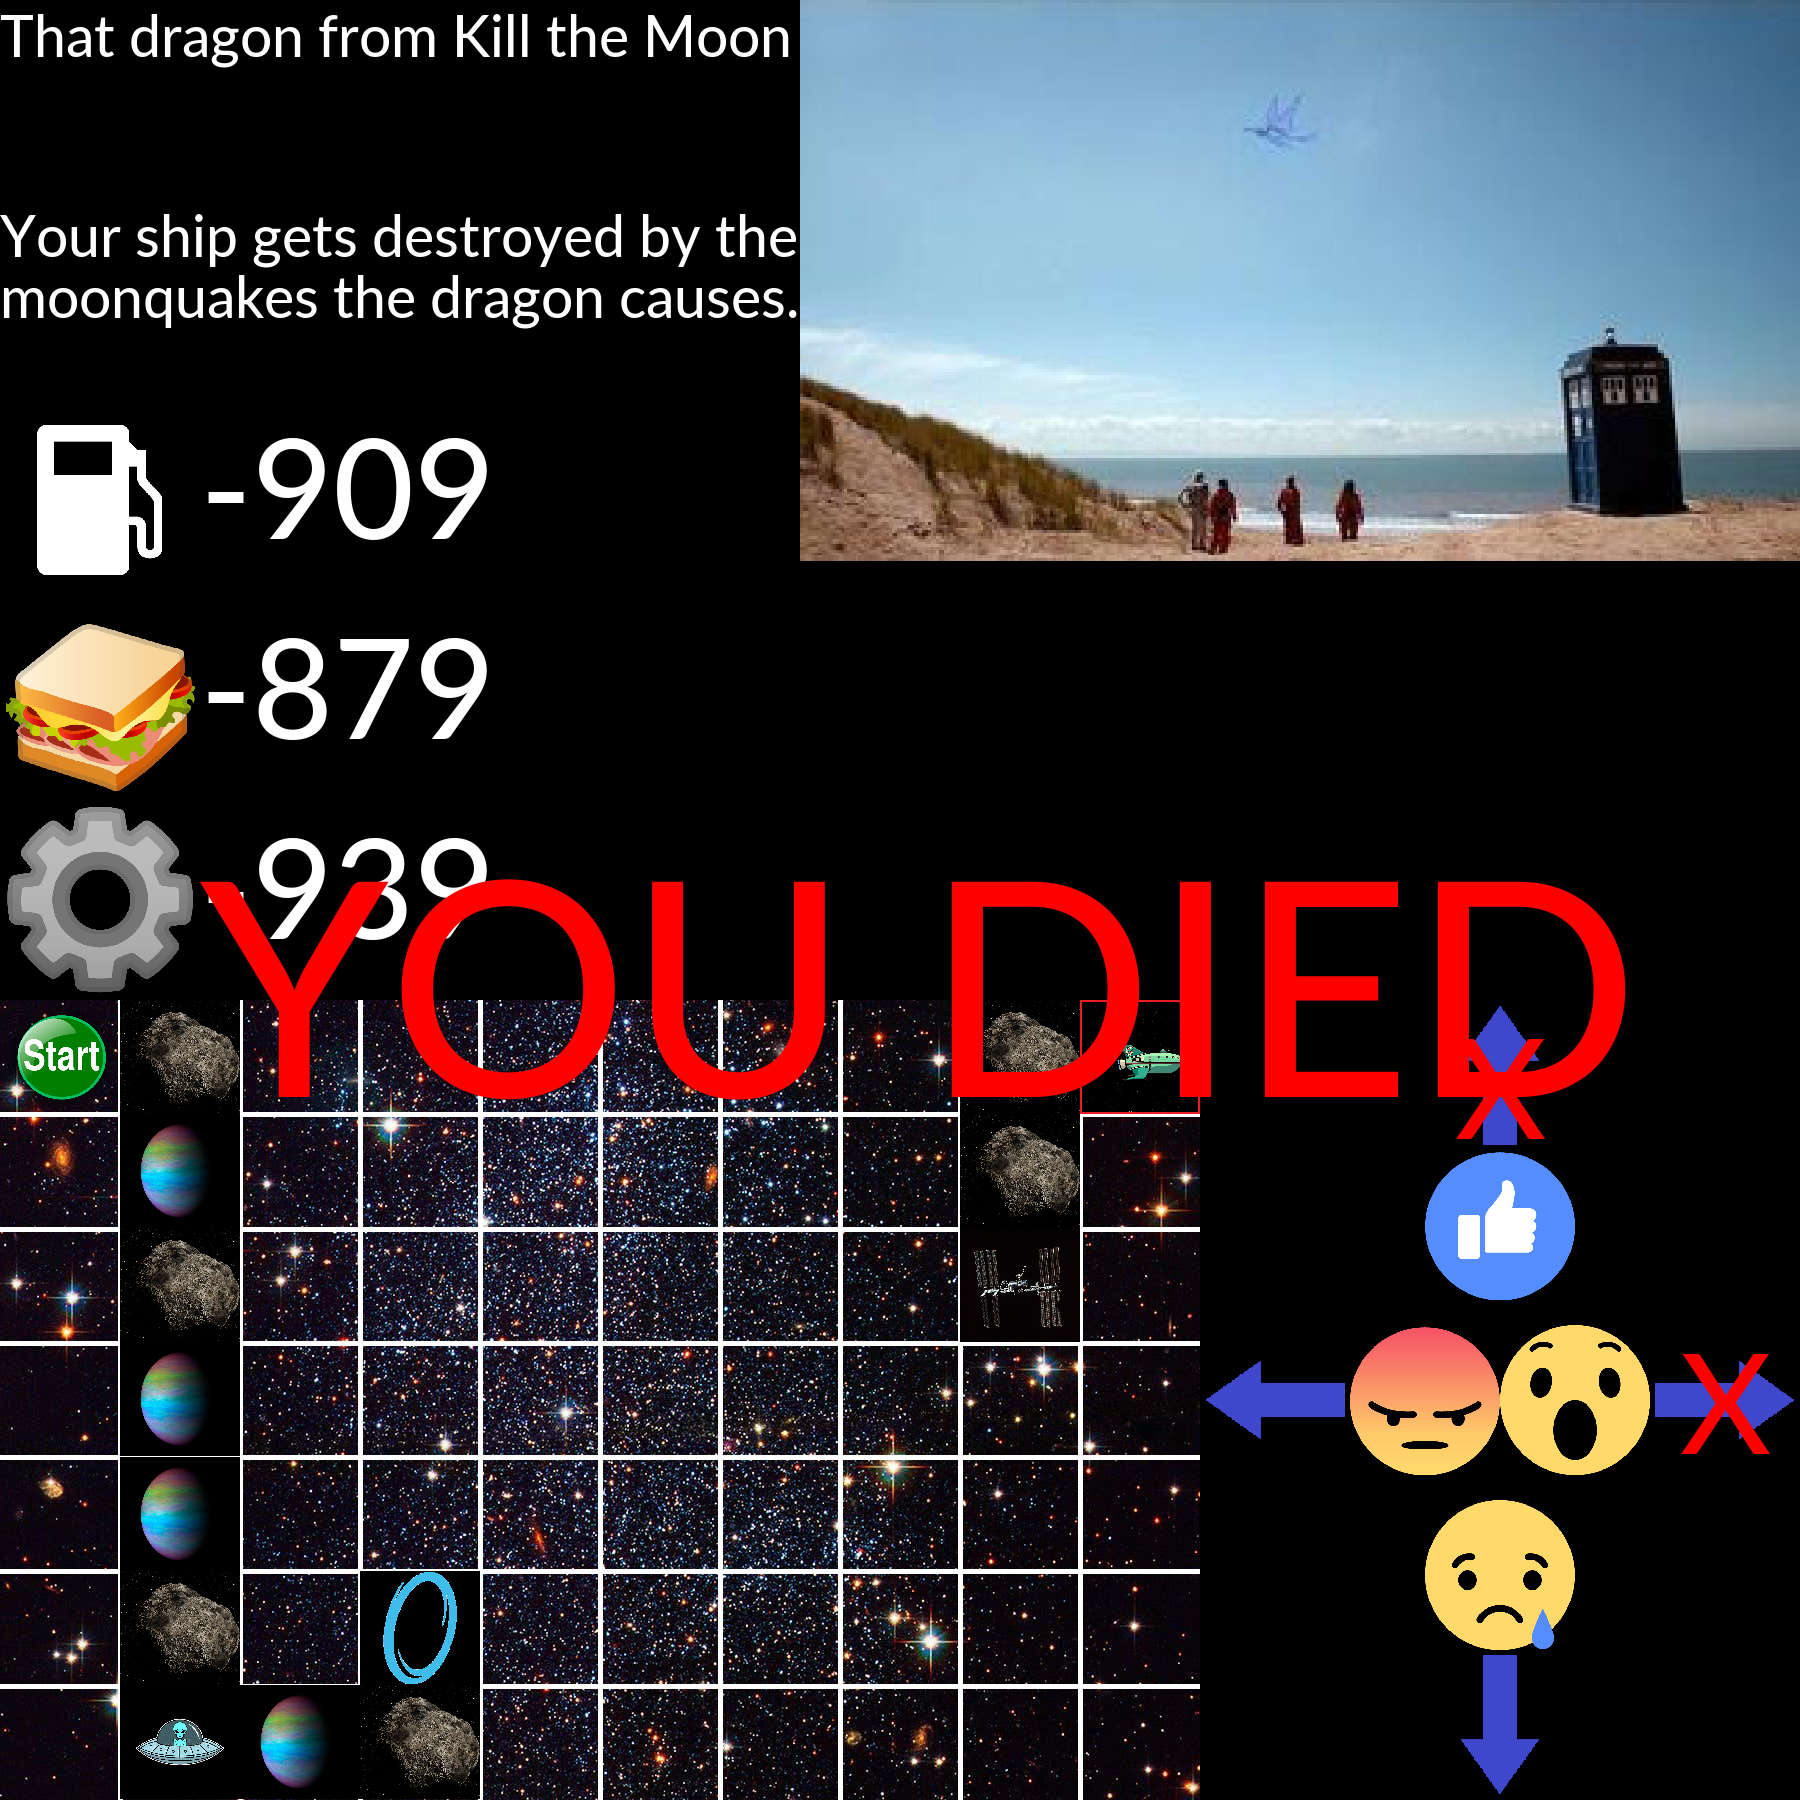
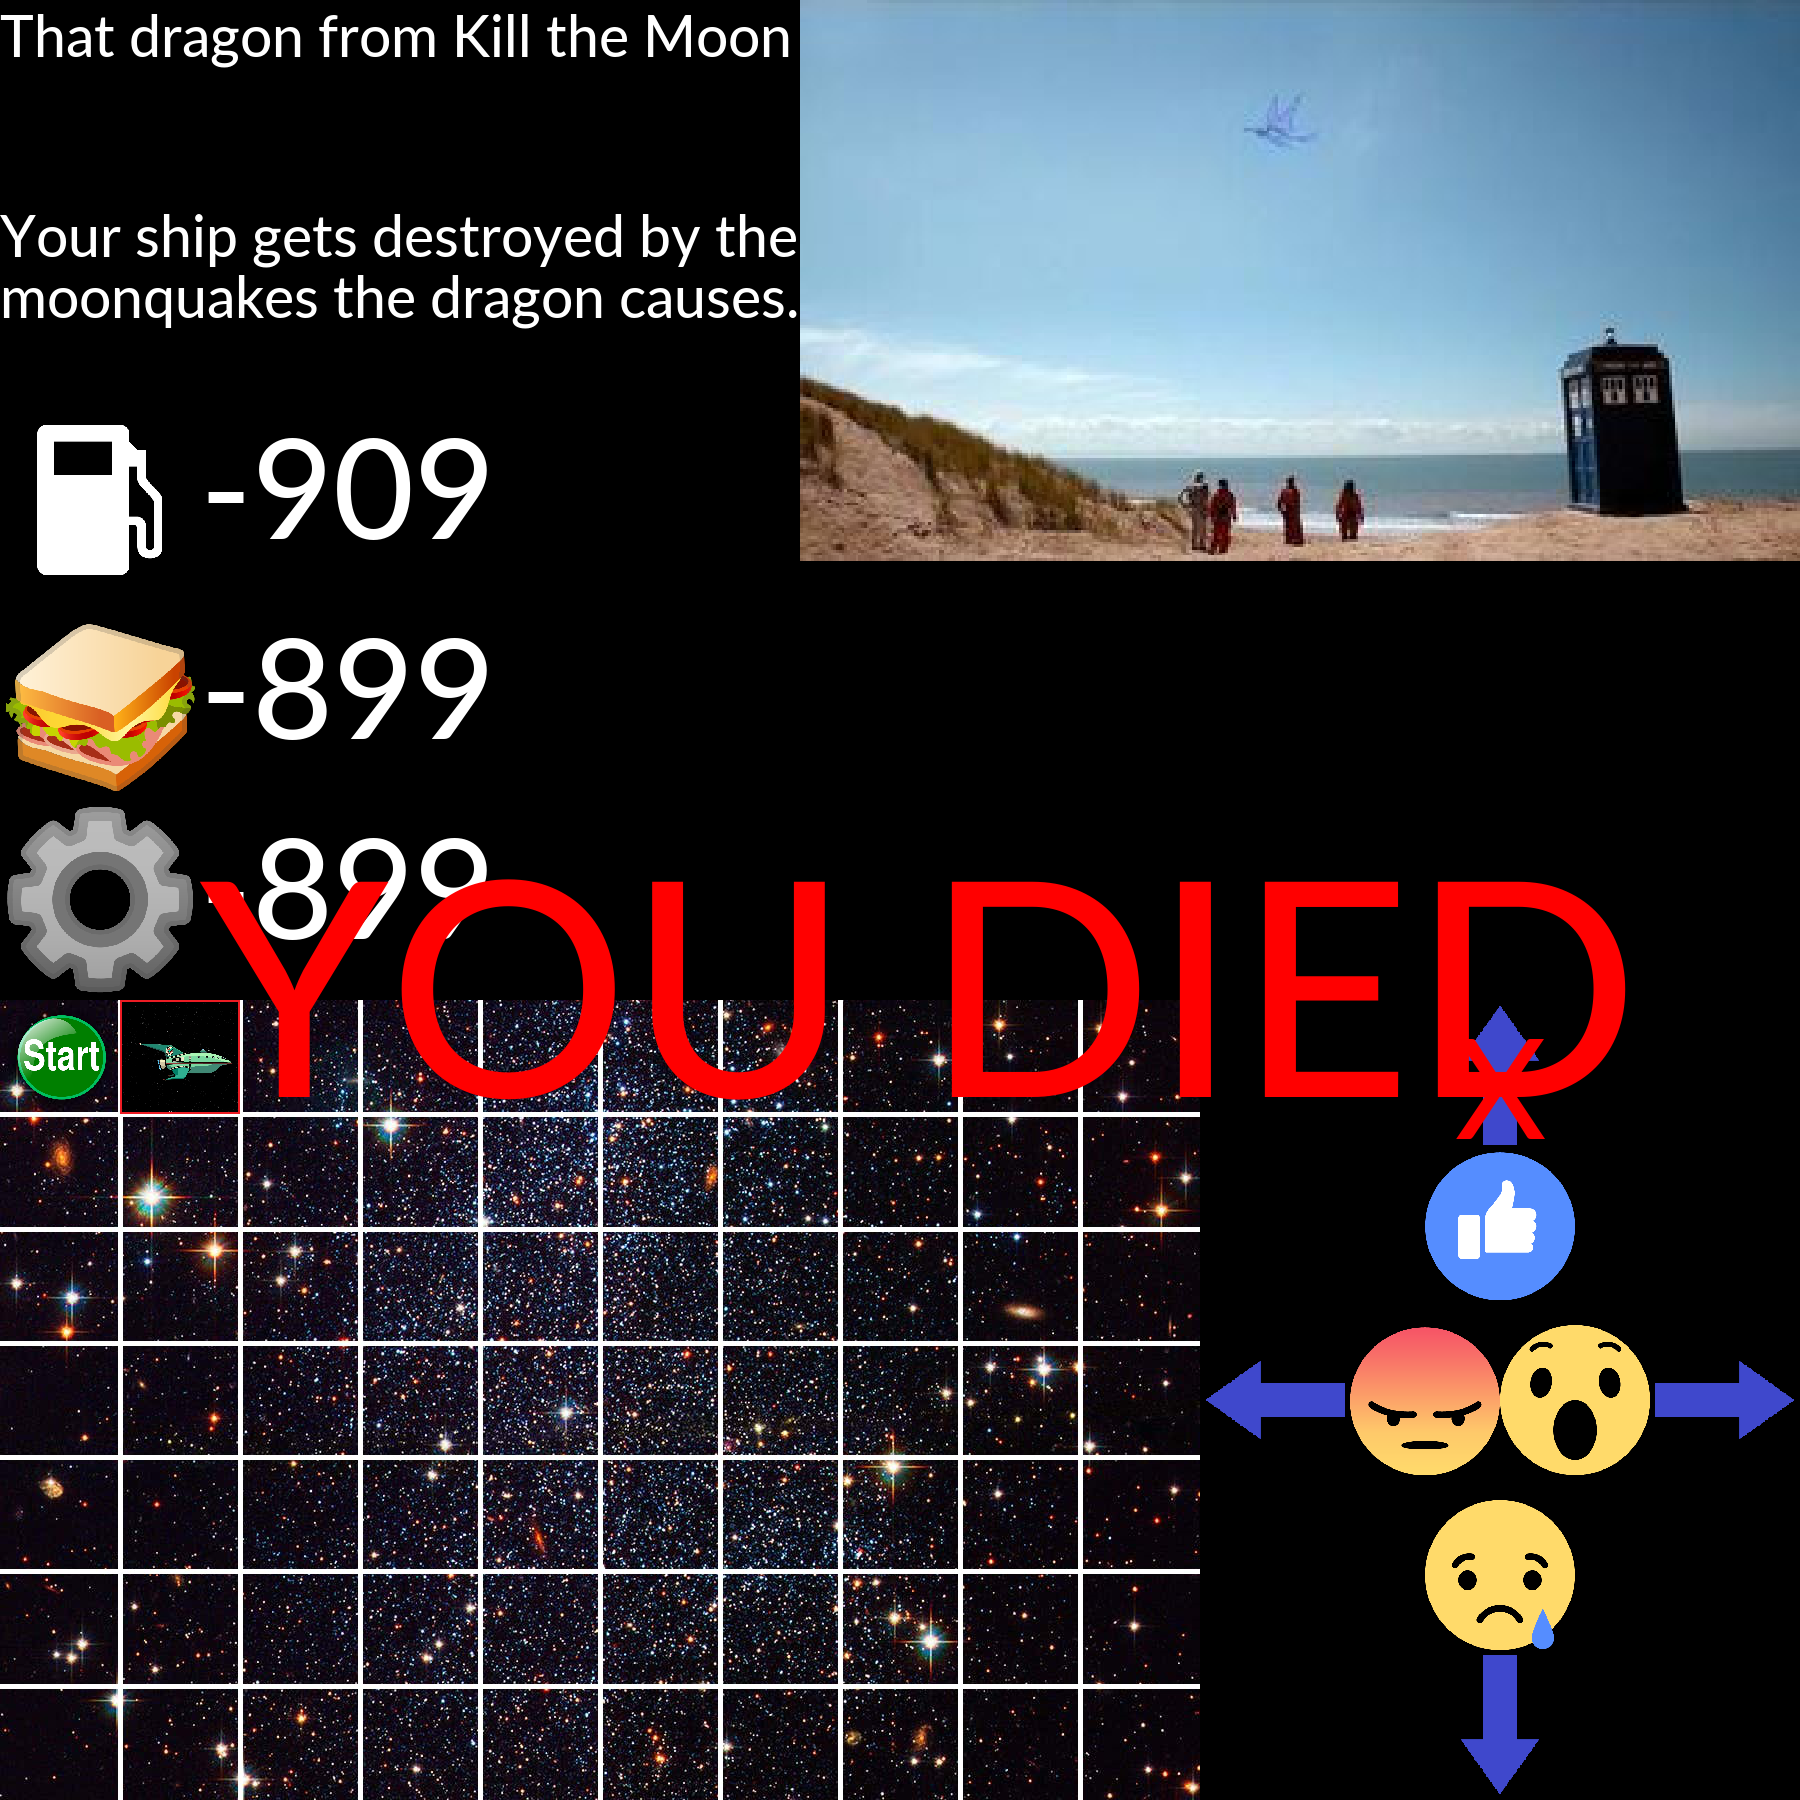
Typo fixes

diff --git a/planets.py b/planets.py
@@ -76,7 +76,7 @@ class Goal(Event):
 class Planet(Event):
 	def __init__(self,name=""):
 		super().__init__(name)
-		self.bad_chance = 0.4
+		self.bad_chance = 0.5
 		self.type = "Planet"
 		self.icon = "Resources/Planet_icon.png"
 		self.pretext = "You've reached planet {}".format(self.name)
@@ -157,7 +157,7 @@ class Planet(Event):
 				"url"  : "https://gineipaedia.com/w/images/thumb/d/db/Phezzan.jpg/300px-Phezzan.jpg"
 				},
 			"Mars Colony":{
-				"good" : "You restore Mars' atmosphere and make up with a hot chick. You get 10 provisions",
+				"good" : "You restore Mars' atmosphere and make out with a hot chick. You get 10 provisions",
 				"bad"  : "You may or may not be a secret double/triple agent whose memory was wiped intentionally or unintentionally once or twice. In the confusion you lose 10 provisions",
 				"url"  : "https://3.bp.blogspot.com/-ulLqOBJWHWI/VgGE5XVBP2I/AAAAAAAABOk/HKJiC9PewJs/s2048/01%2BAstronauts%2Bon%2BMars%2BTotal%2BRecall%2B1990%2Bmovie%2Bimage.jpg"
 				},
@@ -416,7 +416,7 @@ class Ship(Event):
 				"url"  : "https://live.staticflickr.com/5053/5568240946_07817746e1_n.jpg"
 				},
 			"Von Braun":{
-				"good" : "You embark on the first manned mission to jupiter. You get 20 fuel",
+				"good" : "You embark on the first manned mission to Jupiter. You get 20 fuel",
 				"bad"  : "You are boarded by space terrorists trying to make you feel bad about space exploration. Your hull is damaged by 10",
 				"url"  : "https://66.media.tumblr.com/43856f6f427c3597a5e002a27f79627f/tumblr_inline_pq5qwycAbn1s3ca0o_540.png"
 				},
@@ -511,7 +511,7 @@ class Spaceport(Event):
 		if fuel<=food and fuel<=hull:
 			spaceship.modify_fuel(50)
 		elif food<=hull:
-			spacehip.modify_provisions(50)
+			spaceship.modify_provisions(50)
 		else:
 			spaceship.modify_hull(50)
 		return spaceship
@@ -522,7 +522,7 @@ class Being(Event):
 		self.bad_chance = 0.5
 		self.type = "Being"
 		self.icon = "Resources/Being_icon.png"
-		self.pretext = "You find a cosmic entity: {}.".format(self.name)
+		self.pretext = "You find a cosmic entity: {}".format(self.name)
 		self.properties = {
 			"Your Mom" : {
 				"good" : "Your mom is ver kind and loving. All resources maxed up.",
@@ -595,7 +595,7 @@ class BlackHole(Event):
 		self.bad_chance = 1
 		self.type = "Black Hole"
 		self.icon = "Resources/BlackHole_icon.png"
-		self.pretext = "Oh no! It's the black hole {}.".format(self.name)
+		self.pretext = "Oh no! It's the black hole {}".format(self.name)
 		self.urls = {
 			"Sagittarius A*":"https://upload.wikimedia.org/wikipedia/commons/thumb/7/7e/Sagittarius_A%2A.jpg/250px-Sagittarius_A%2A.jpg",
 			"Messier 87" : "https://upload.wikimedia.org/wikipedia/commons/thumb/c/cf/Black_hole_-_Messier_87.jpg/330px-Black_hole_-_Messier_87.jpg",

diff --git a/Space.py b/Space.py
@@ -87,13 +87,13 @@ class Spaceship:
 		self.isHome = True
 
 	def modify_fuel(self,amount):
-		self.fuel += amount
+		self.fuel = min(150,self.fuel+amount)
 
 	def modify_hull(self,amount):
-		self.hull += amount
+		self.hull = min(150,self.hull+amount)
 
 	def modify_provisions(self,amount):
-		self.provisions += amount
+		self.provisions = min(150,self.provisions+amount)
 
 	def is_dead(self):
 		return self.fuel<=0 or self.hull<=0 or self.provisions<=0
@@ -224,7 +224,7 @@ def gen_initial_image(spaceship,goal):
 	img = add_numbers(img,spaceship)
 	draw = ImageDraw.Draw(img)
 	draw.text((0,0),"Start",font=get_font(get_fontsize("Start",draw)))
-	draw.text((0,200),"Your journey begins!, travel space to find {}. Use reactions to move the ship".format(goal),font=get_font(40))
+	draw.text((0,200),'Your journey begins!,\ntravel space to find {}.\nUse reactions to move the ship'.format(goal),font=get_font(40))
 	img = add_crosses(img,spaceship)
 	del draw
 	img.save("Post_image.png")
@@ -238,7 +238,10 @@ def update_image(spaceship,event):
 	if event.type!="Goal":
 		previous = add_icon(previous,event.icon,spaceship.x,spaceship.y)
 		previous.save("Reference_image.png")
-	img_path = get_image_from_url(event.url)
+	try:
+		img_path = get_image_from_url(event.url)
+	except:
+		img_path = "Resources/failsafe.png"
 	img = Image.open(img_path)
 	lenx = img.size[0]
 	leny = img.size[1]
@@ -300,10 +303,21 @@ def add_spaceship(img,ship):
 
 def add_numbers(img,ship):
 	draw = ImageDraw.Draw(img)
-	draw.text((200,400),str(ship.fuel),font=get_font(140))
-	draw.text((200,600),str(ship.provisions),font=get_font(140))
-	draw.text((200,800),str(ship.hull),font=get_font(140))
+	draw.text((200,400),str(ship.fuel),font=get_font(140),fill=get_fill(ship.fuel))
+	draw.text((200,600),str(ship.provisions),font=get_font(140),fill=get_fill(ship.provisions))
+	draw.text((200,800),str(ship.hull),font=get_font(140),fill=get_fill(ship.hull))
 	return img
+
+def get_fill(resource):
+	if resource==150:
+		return "green"
+	if resource==20:
+		return "orange"
+	if resource==10:
+		return "red"
+	if resource<40:
+		return "yellow"
+		return
 
 def add_crosses(img,ship,is_portal=False):
 	draw = ImageDraw.Draw(img)
@@ -342,6 +356,9 @@ def get_image_from_url(url):
 
 def main(isFirst=False,direction=""):
 
+	if direction:
+		gr = 0
+		p_id = 0
 
 	if isFirst:
 		#generar el tablero

diff --git a/runSpace.py b/runSpace.py
@@ -1,7 +1,12 @@
 import Space
 import time
+import os
 
-seguir = True
-while seguir:
-	seguir = Space.main()
-	time.sleep(60*15)
+while True:
+	seguir = True
+	while seguir:
+		seguir = Space.main(!os.path.exists("sigo"))
+		open("sigo","w+")
+		time.sleep(60*30)
+
+	os.remove("sigo")
